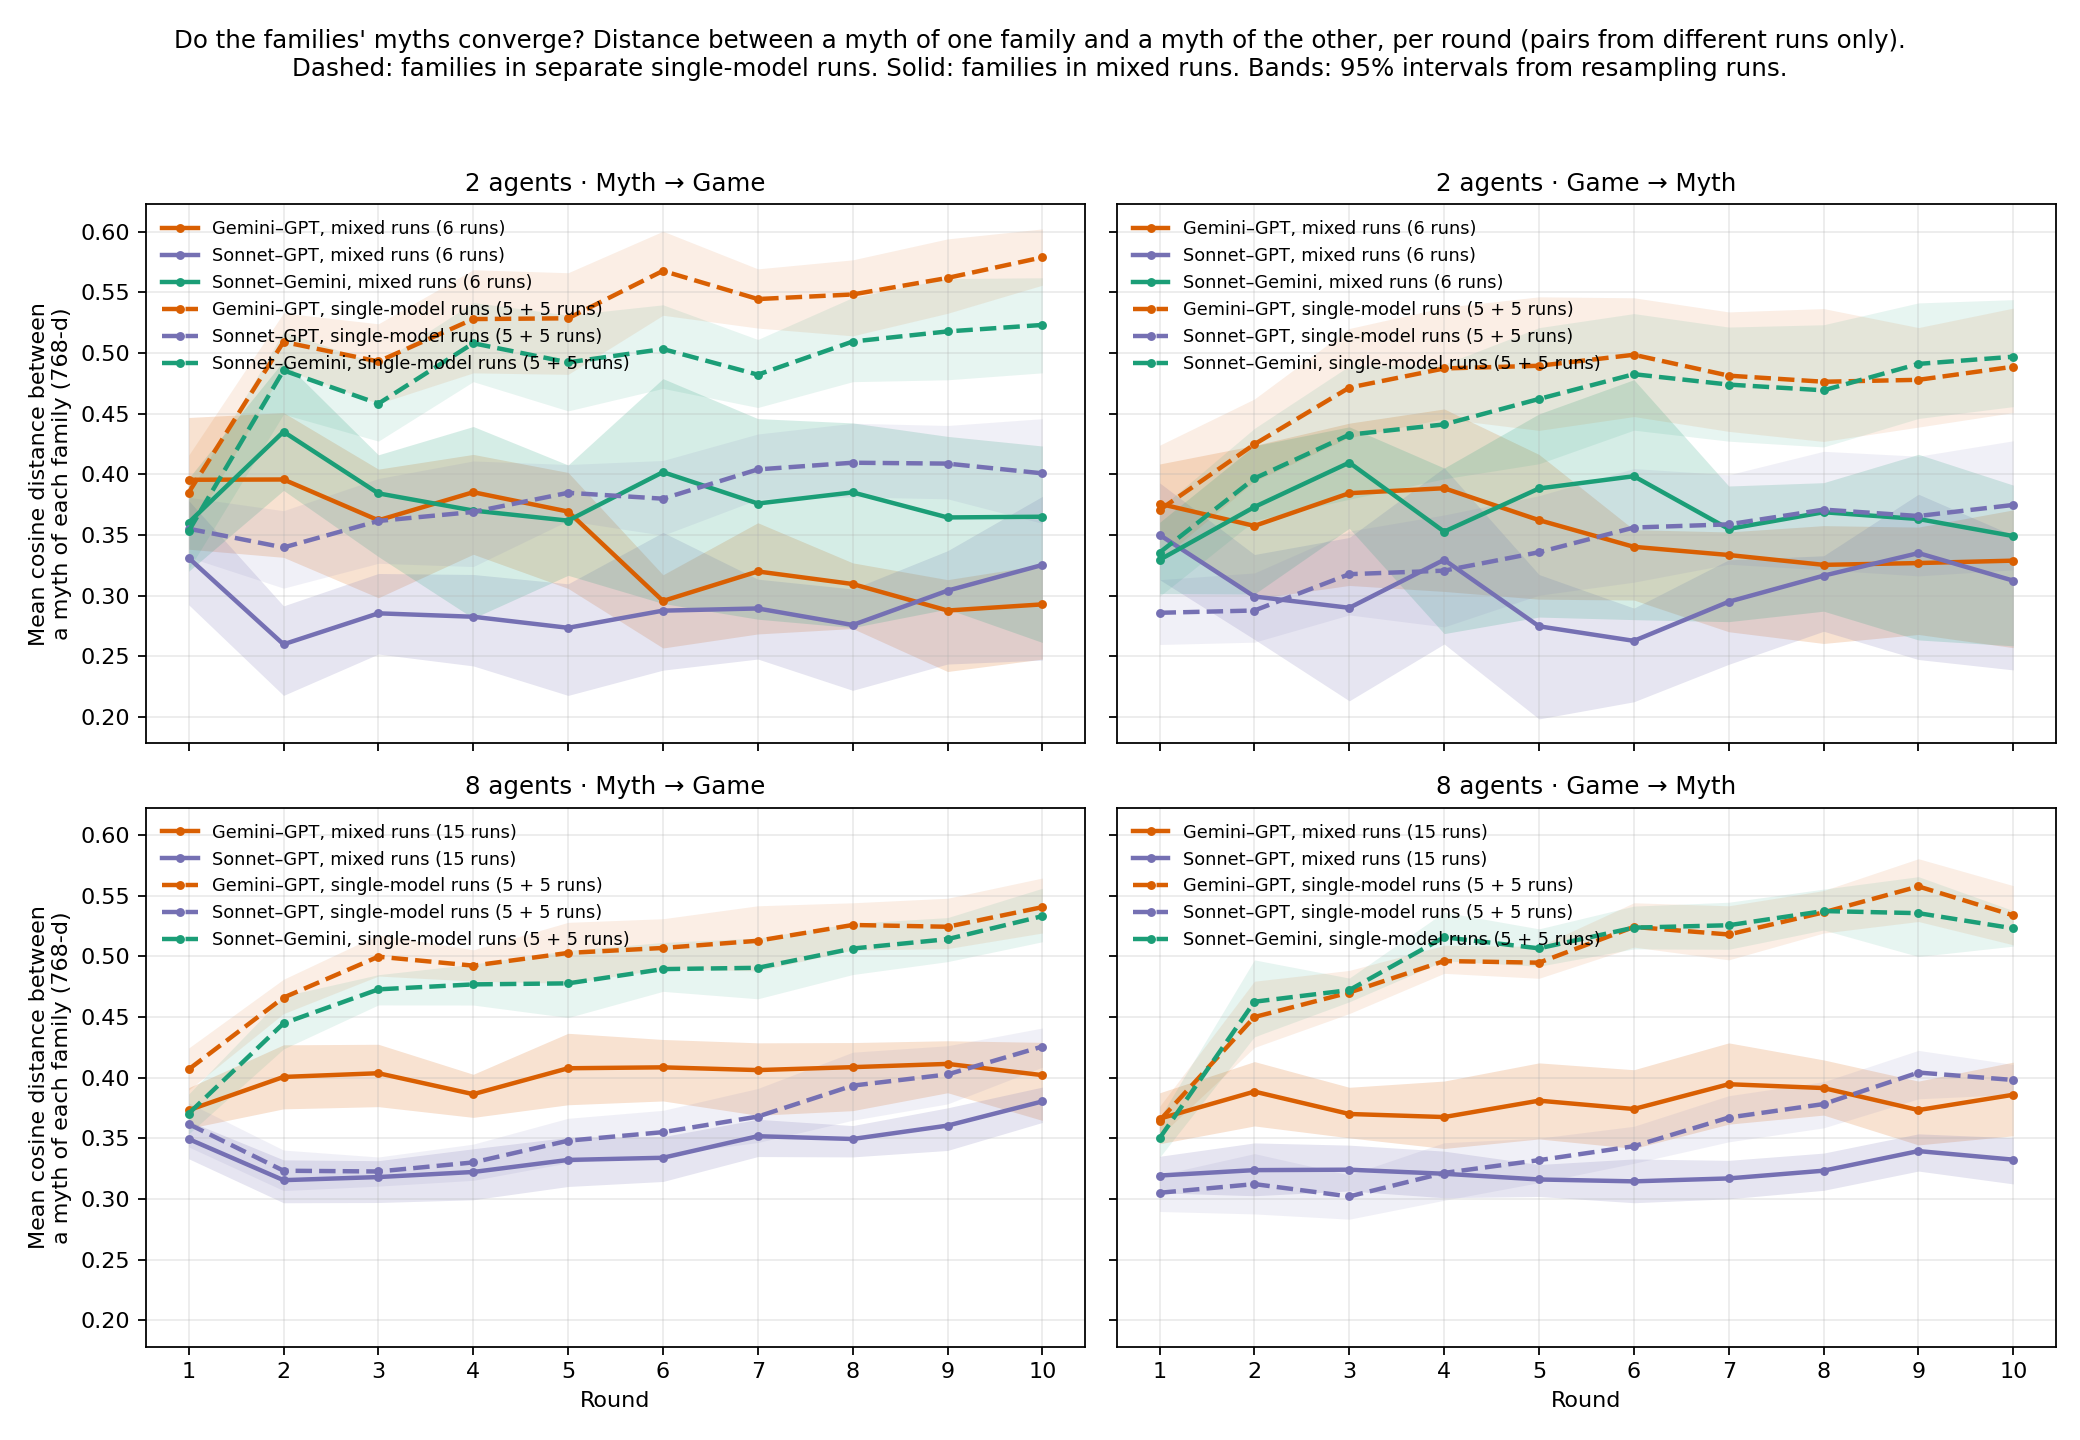
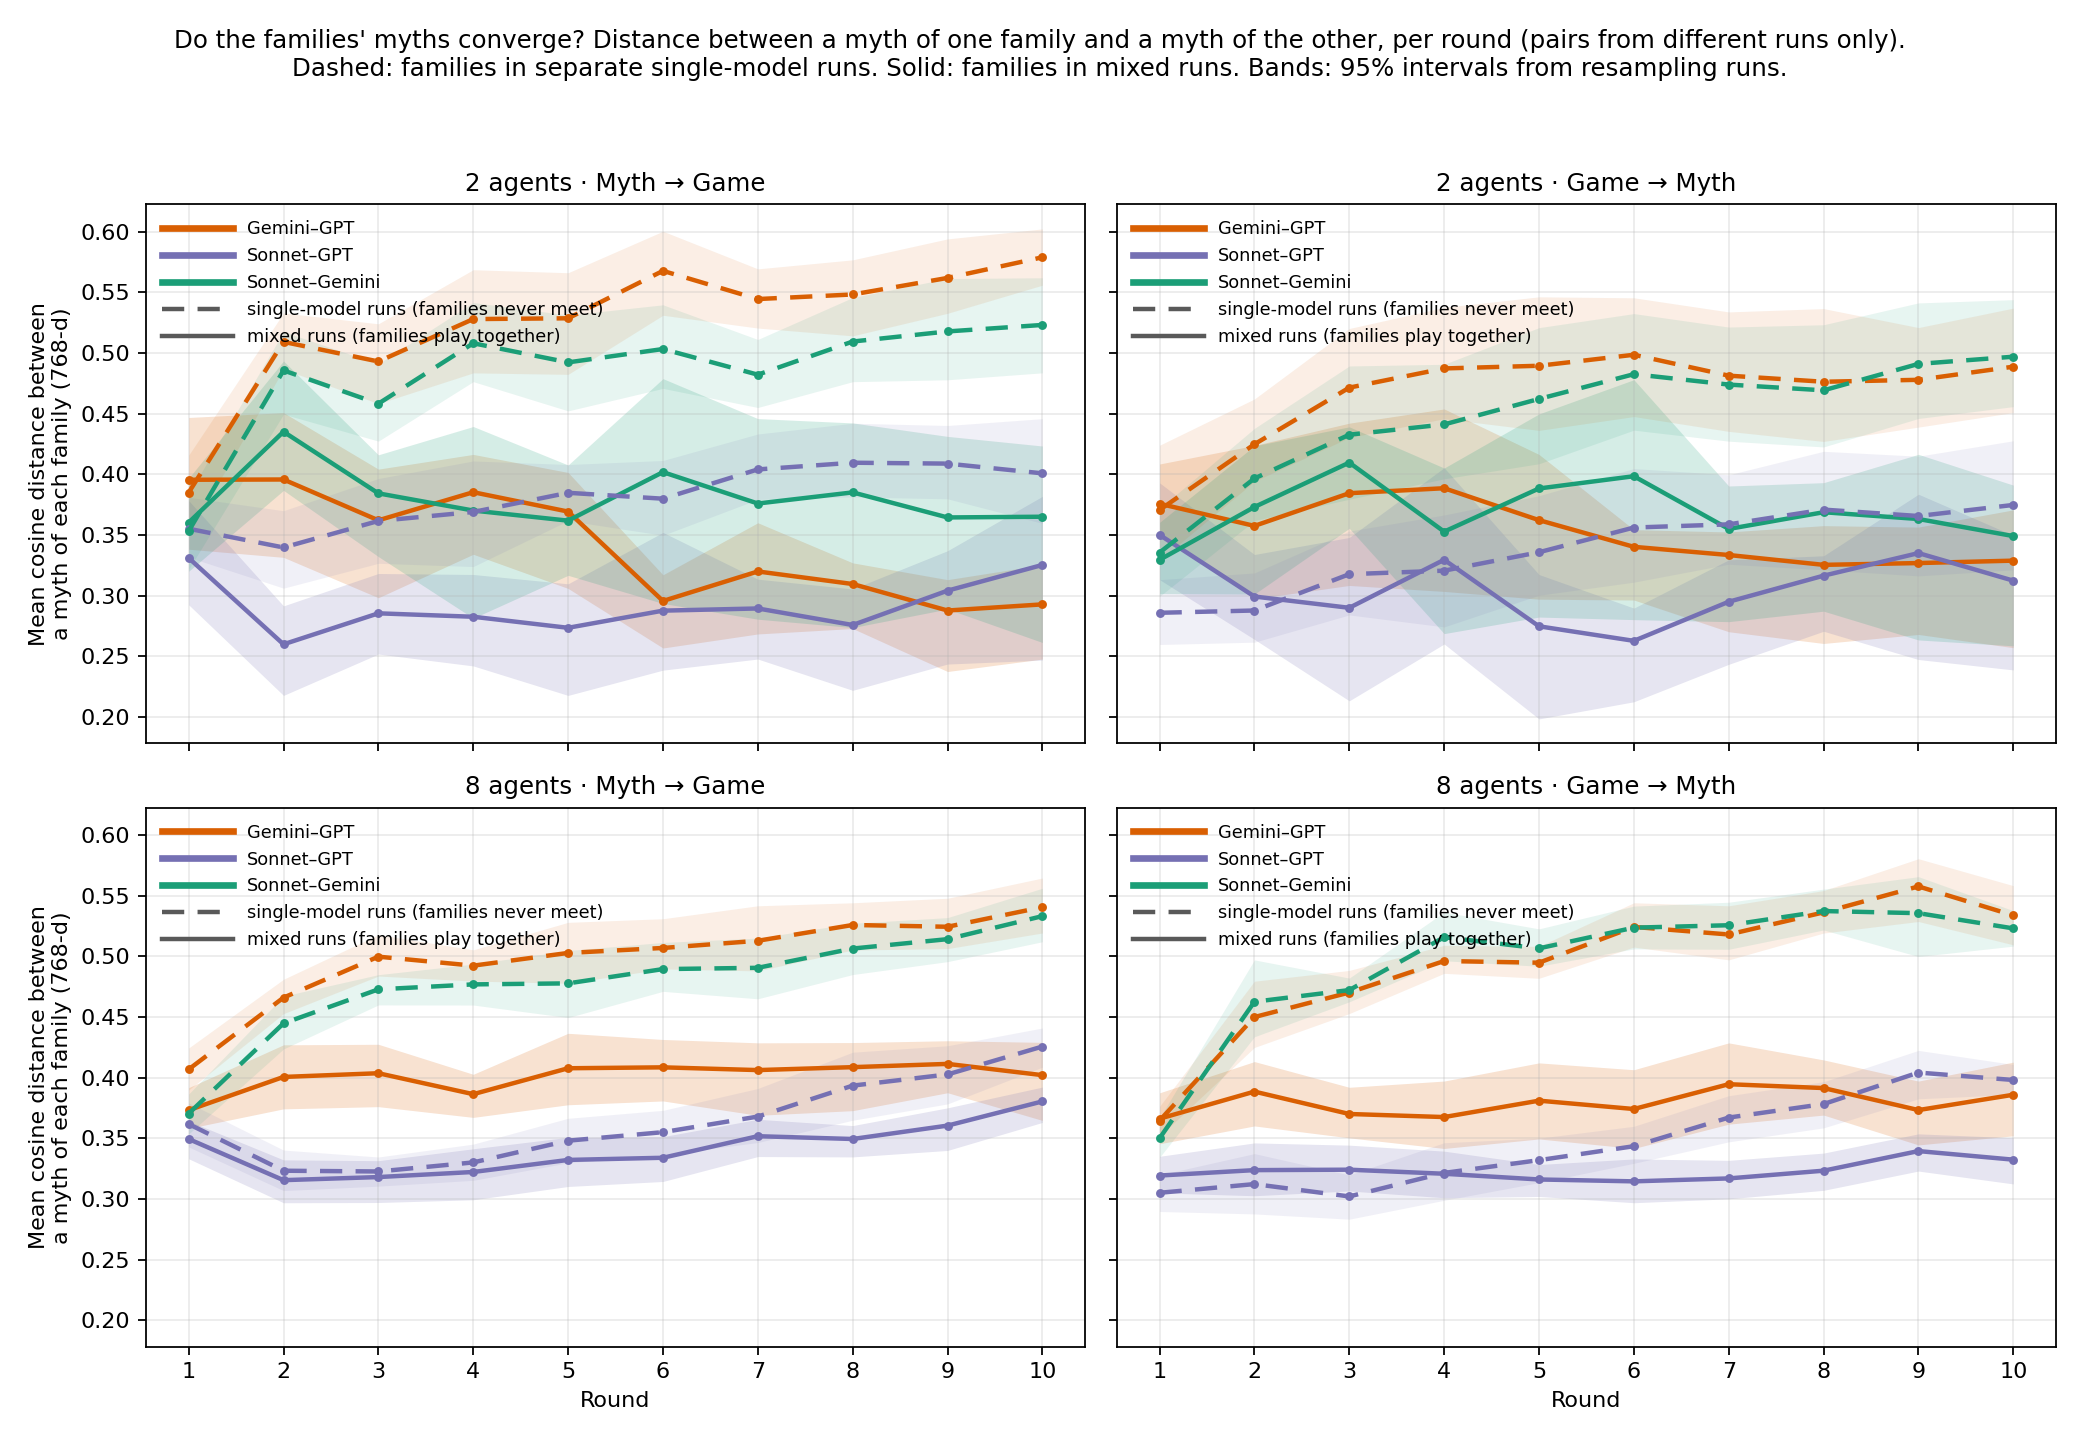
Myth-map significance plots: legend shows line style, basin behind the chosen-axes maps

diff --git a/analyses/myth_map_significance.py b/analyses/myth_map_significance.py
@@ -148,8 +148,7 @@ def plot_distance_curves(curves, ds, out: Path) -> None:
                 single = group == "single"
                 color = pair_color[pair]
                 ax.fill_between(c["round"], c.ci_low, c.ci_high, color=color, alpha=0.10 if single else 0.18, lw=0)
-                ax.plot(c["round"], c.distance, color=color, lw=2, ls="--" if single else "-", marker="o", ms=3,
-                        label=f"{pair}, {'single-model runs' if single else 'mixed runs'} ({c.n_runs.iloc[0]} runs)")
+                ax.plot(c["round"], c.distance, color=color, lw=2, ls=(0, (5, 3)) if single else "-", marker="o", ms=3)
             ax.set_title(f"{size} agents · {TASK_ORDERS[to]}", fontsize=11)
             ax.set_xticks(list(ROUNDS))
             ax.grid(alpha=0.25)
@@ -157,7 +156,12 @@ def plot_distance_curves(curves, ds, out: Path) -> None:
                 ax.set_xlabel("Round")
             if j == 0:
                 ax.set_ylabel("Mean cosine distance between\na myth of each family (768-d)")
-            ax.legend(frameon=False, fontsize=8, loc="upper left")
+            # legend: colour = family pair, line style = run type (drawn without markers so the dashes show)
+            pairs = list(dict.fromkeys(cell.pair))
+            handles = [plt.Line2D([], [], color=pair_color[p], lw=3, label=p) for p in pairs]
+            handles += [plt.Line2D([], [], color="0.35", lw=2, ls=(0, (5, 3)), label="single-model runs (families never meet)"),
+                        plt.Line2D([], [], color="0.35", lw=2, label="mixed runs (families play together)")]
+            ax.legend(handles=handles, frameon=False, fontsize=8, loc="upper left", handlelength=4)
     fig.suptitle("Do the families' myths converge? Distance between a myth of one family and a myth of the other, "
                  "per round (pairs from different runs only).\nDashed: families in separate single-model runs. Solid: "
                  "families in mixed runs. Bands: 95% intervals from resampling runs.", fontsize=11)
@@ -198,11 +202,20 @@ def share_kept(myths, emb, basis) -> dict:
 
 def plot_family_time_map(myths, emb, ds, x_dir, y_dir, size: int, out: Path) -> None:
     myths = myths.assign(fx=emb @ x_dir, ty=emb @ y_dir)
+    pad = 0.04
+    xr = (myths.fx.min() - pad, myths.fx.max() + pad)
+    yr = (myths.ty.min() - pad, myths.ty.max() + pad)
+    gx, gy = np.mgrid[xr[0]:xr[1]:200j, yr[0]:yr[1]:200j]
     fig, axs = plt.subplots(2, 2, figsize=(13, 10), sharex=True, sharey=True)
     for i, mixed in enumerate([False, True]):
         for j, to in enumerate(TASK_ORDERS):
             ax = axs[i, j]
             cell = myths[(myths["size"] == size) & (myths.mixed == mixed) & (myths.task_order == to)]
+            end = cell[cell["round"] == ROUNDS[-1]]  # background: where this panel's round-10 myths end up
+            kde = stats.gaussian_kde(np.vstack([end.fx, end.ty]), bw_method=0.25)
+            ax.contourf(gx, gy, kde(np.vstack([gx.ravel(), gy.ravel()])).reshape(gx.shape), levels=12, cmap="Blues", alpha=0.85)
+            ax.set_xlim(*xr)
+            ax.set_ylim(*yr)
             for fam in ds.families:
                 f = cell[cell.family == fam]
                 if f.empty:
@@ -230,7 +243,8 @@ def plot_family_time_map(myths, emb, ds, x_dir, y_dir, size: int, out: Path) -> 
                 ax.set_ylabel("Time axis (average round-1 → round-10 shift)")
     fig.suptitle(f"Myths on axes chosen for the question ({size}-agent runs): left-right separates the families, "
                  f"up-down is the direction myths move over the game.\nLine = family average, light → dark = round "
-                 f"1 → 10; small dots = each run's family average at rounds 1 and 10", fontsize=11)
+                 f"1 → 10; small dots = each run's family average at rounds 1 and 10; blue background = where round-10 myths end up",
+                 fontsize=11)
     fig.tight_layout(rect=(0, 0, 1, 0.95))
     fig.savefig(out / f"family_time_map_{size}agent.png", dpi=160)
     plt.close(fig)
